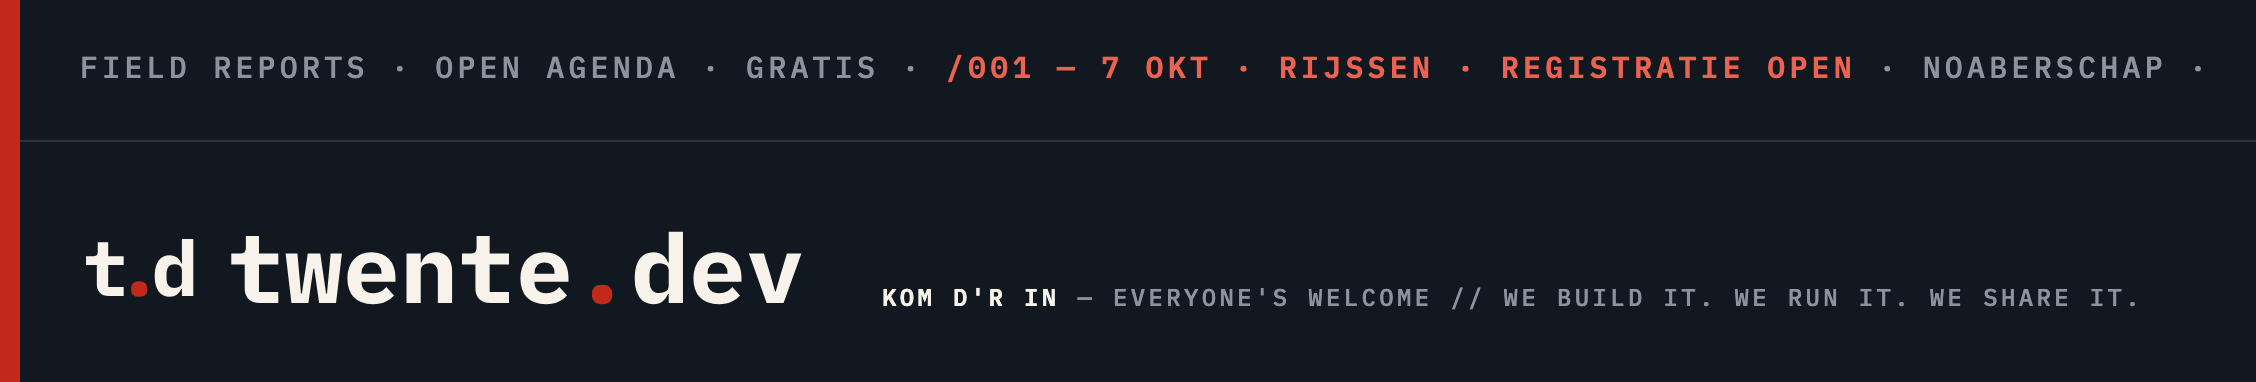
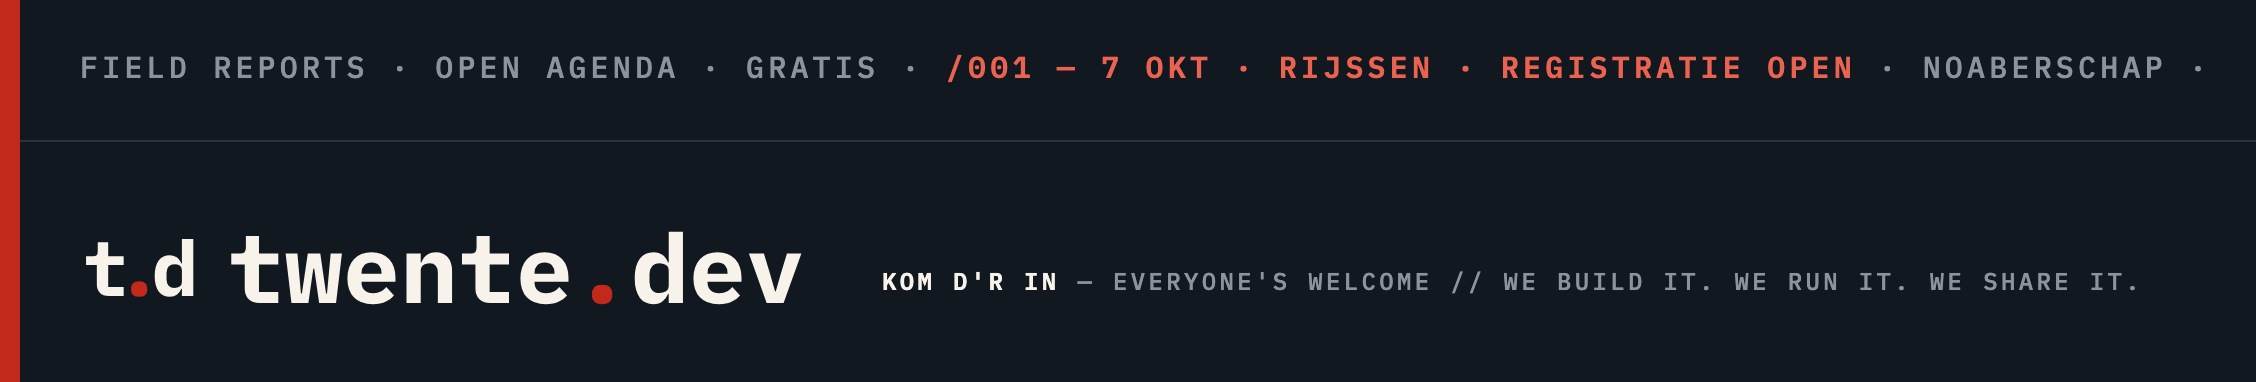
fix(brand): vertrekbord-tagline optisch gecentreerd op de x-hoogte
Baseline-uitlijning zat te laag, de eerste versie te hoog; het kleine
kapitaalregeltje staat nu gecentreerd op het midden van de x-hoogteband
van het woordmerk (y 139) — de klassieke descriptor-uitlijning.

Changed region(s): [[0.3723, 0.6911, 0.9619, 0.8063]]

diff --git a/docs/brand/templates/banners.html b/docs/brand/templates/banners.html
@@ -493,7 +493,7 @@
         <div class="lk" style="left: 40px; bottom: 26px; height: 62px">
           <svg viewBox="0 0 930.837 160"><use href="#lock-ink" /></svg>
         </div>
-        <div class="ticker" style="left: 441px; right: 24px; bottom: 36px; font-size: 12px; line-height: 1"><b>kom d'r in</b><span> — everyone's welcome // we build it. we run it. we share it.</span></div>
+        <div class="ticker" style="left: 441px; right: 24px; bottom: 44px; font-size: 12px; line-height: 1"><b>kom d'r in</b><span> — everyone's welcome // we build it. we run it. we share it.</span></div>
       </div>
     </div>
 
@@ -506,7 +506,7 @@
         <div class="lk" style="left: 40px; bottom: 26px; height: 62px">
           <svg viewBox="0 0 930.837 160"><use href="#lock-paper" /></svg>
         </div>
-        <div class="ticker" style="left: 441px; right: 24px; bottom: 36px; font-size: 12px; line-height: 1"><b>kom d'r in</b><span> — everyone's welcome // we build it. we run it. we share it.</span></div>
+        <div class="ticker" style="left: 441px; right: 24px; bottom: 44px; font-size: 12px; line-height: 1"><b>kom d'r in</b><span> — everyone's welcome // we build it. we run it. we share it.</span></div>
       </div>
     </div>
 
